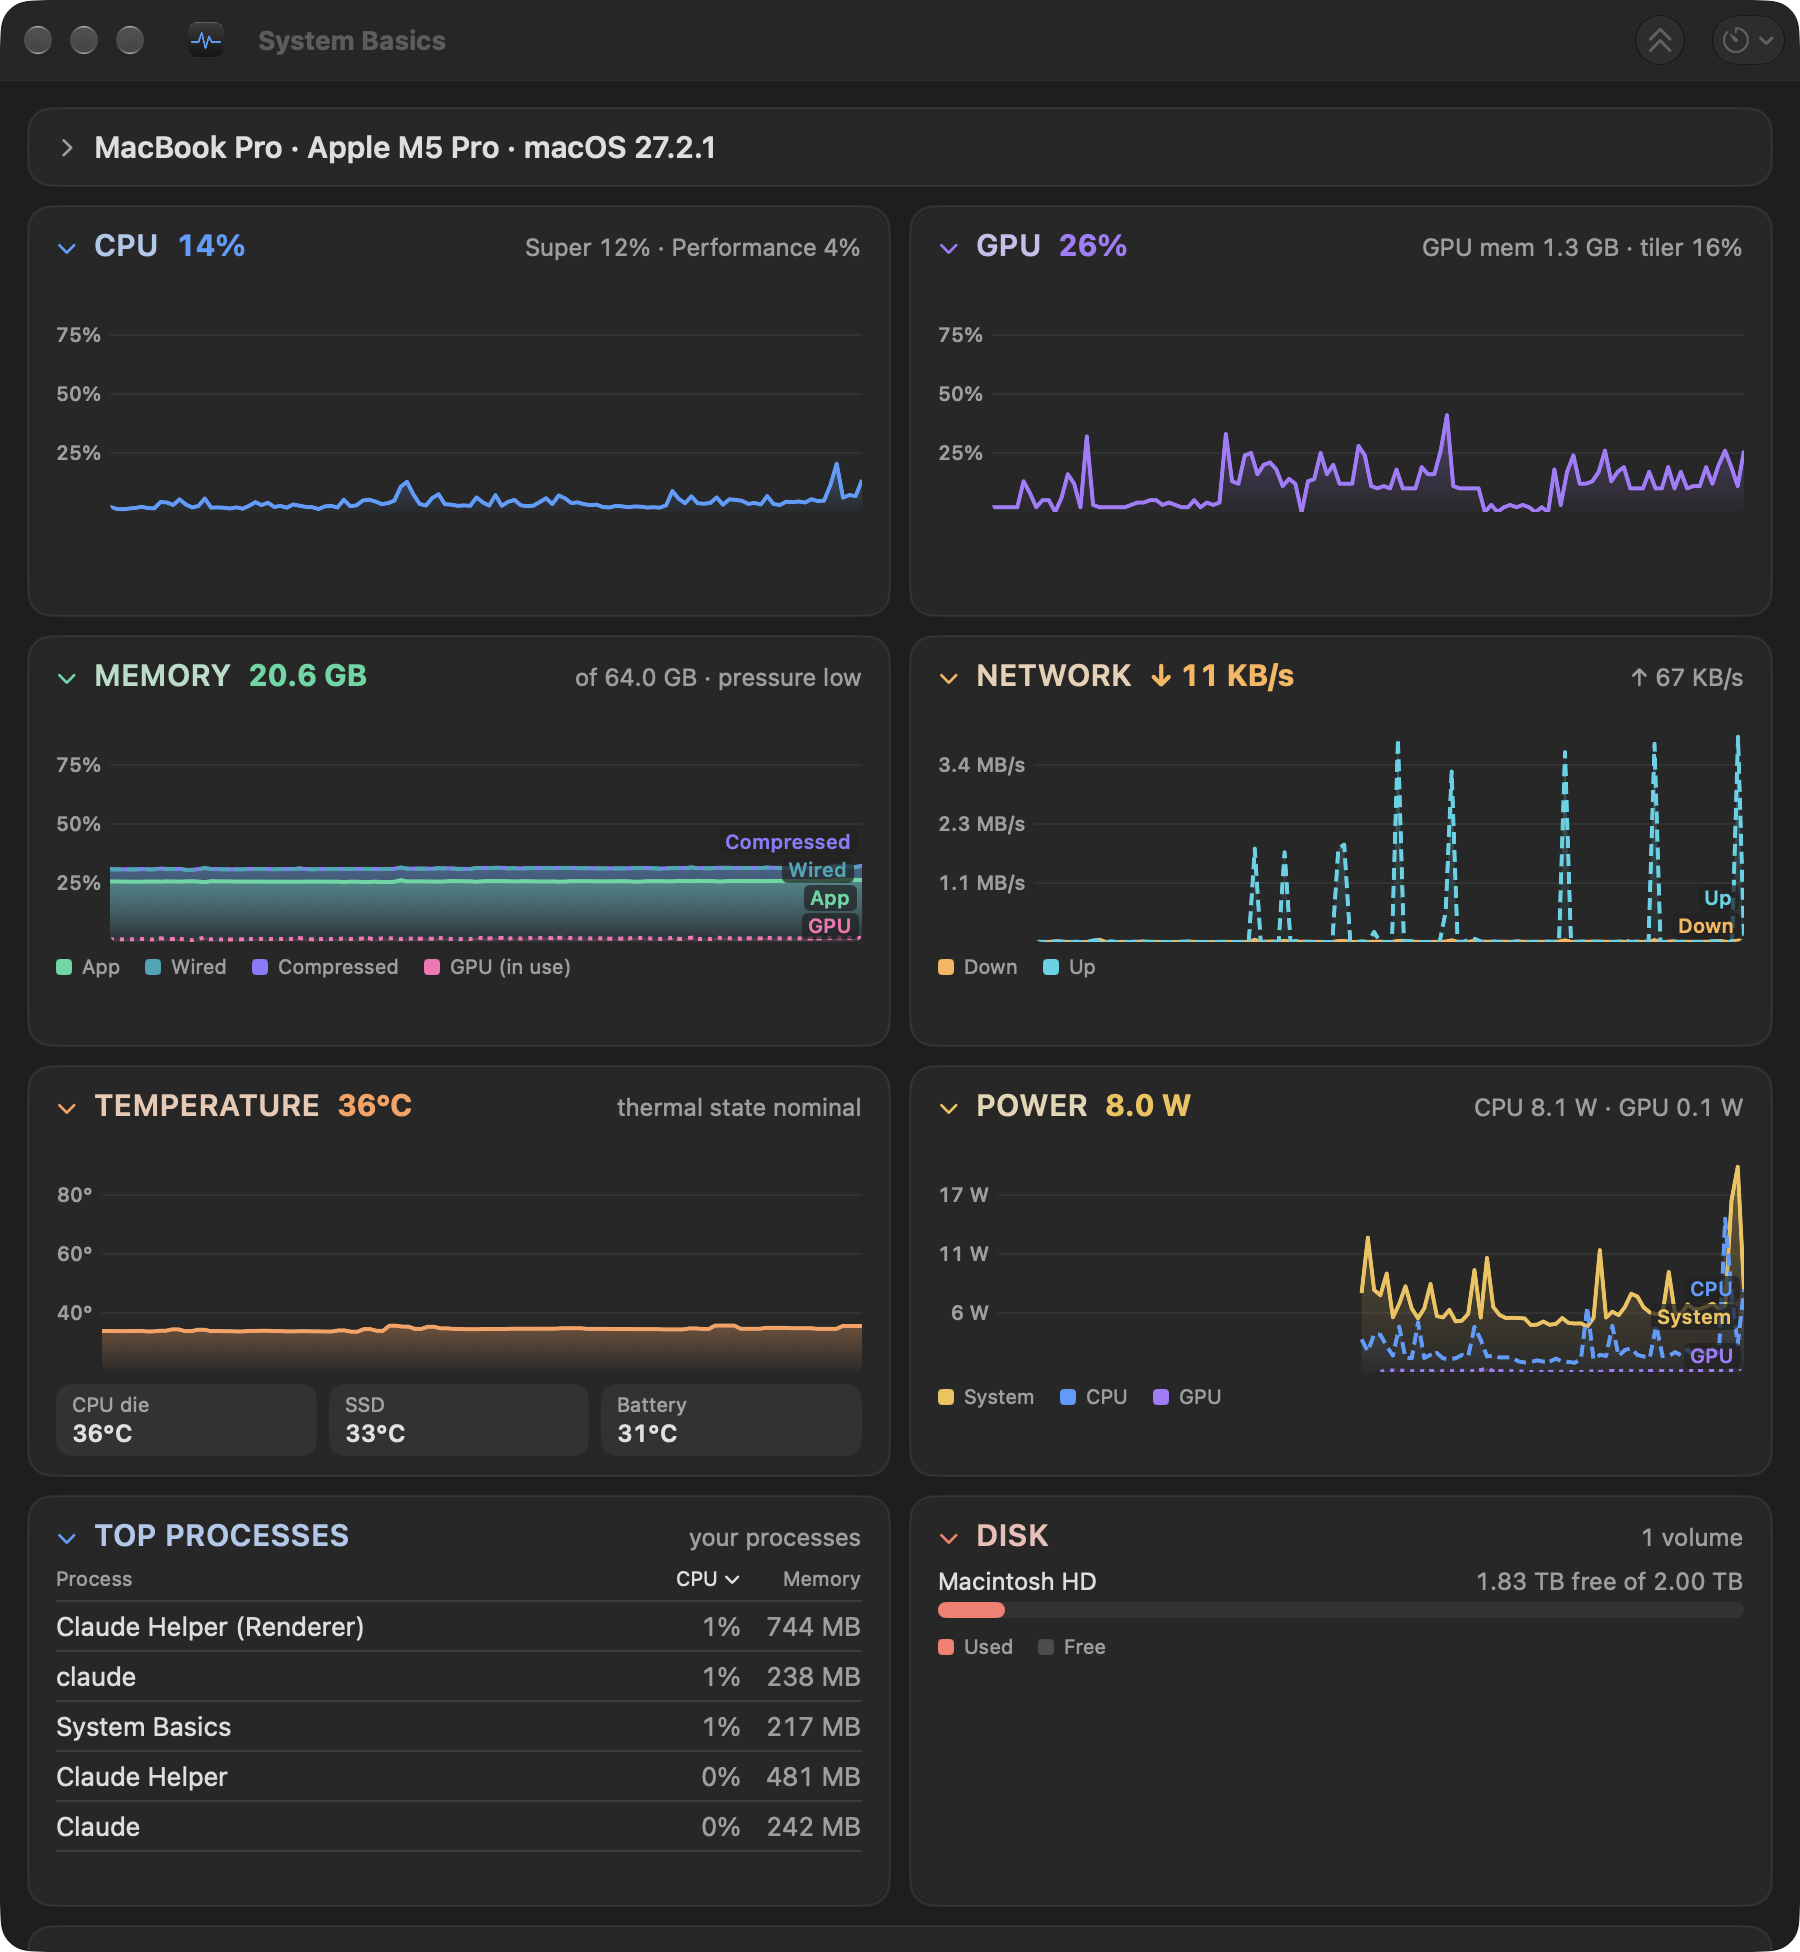
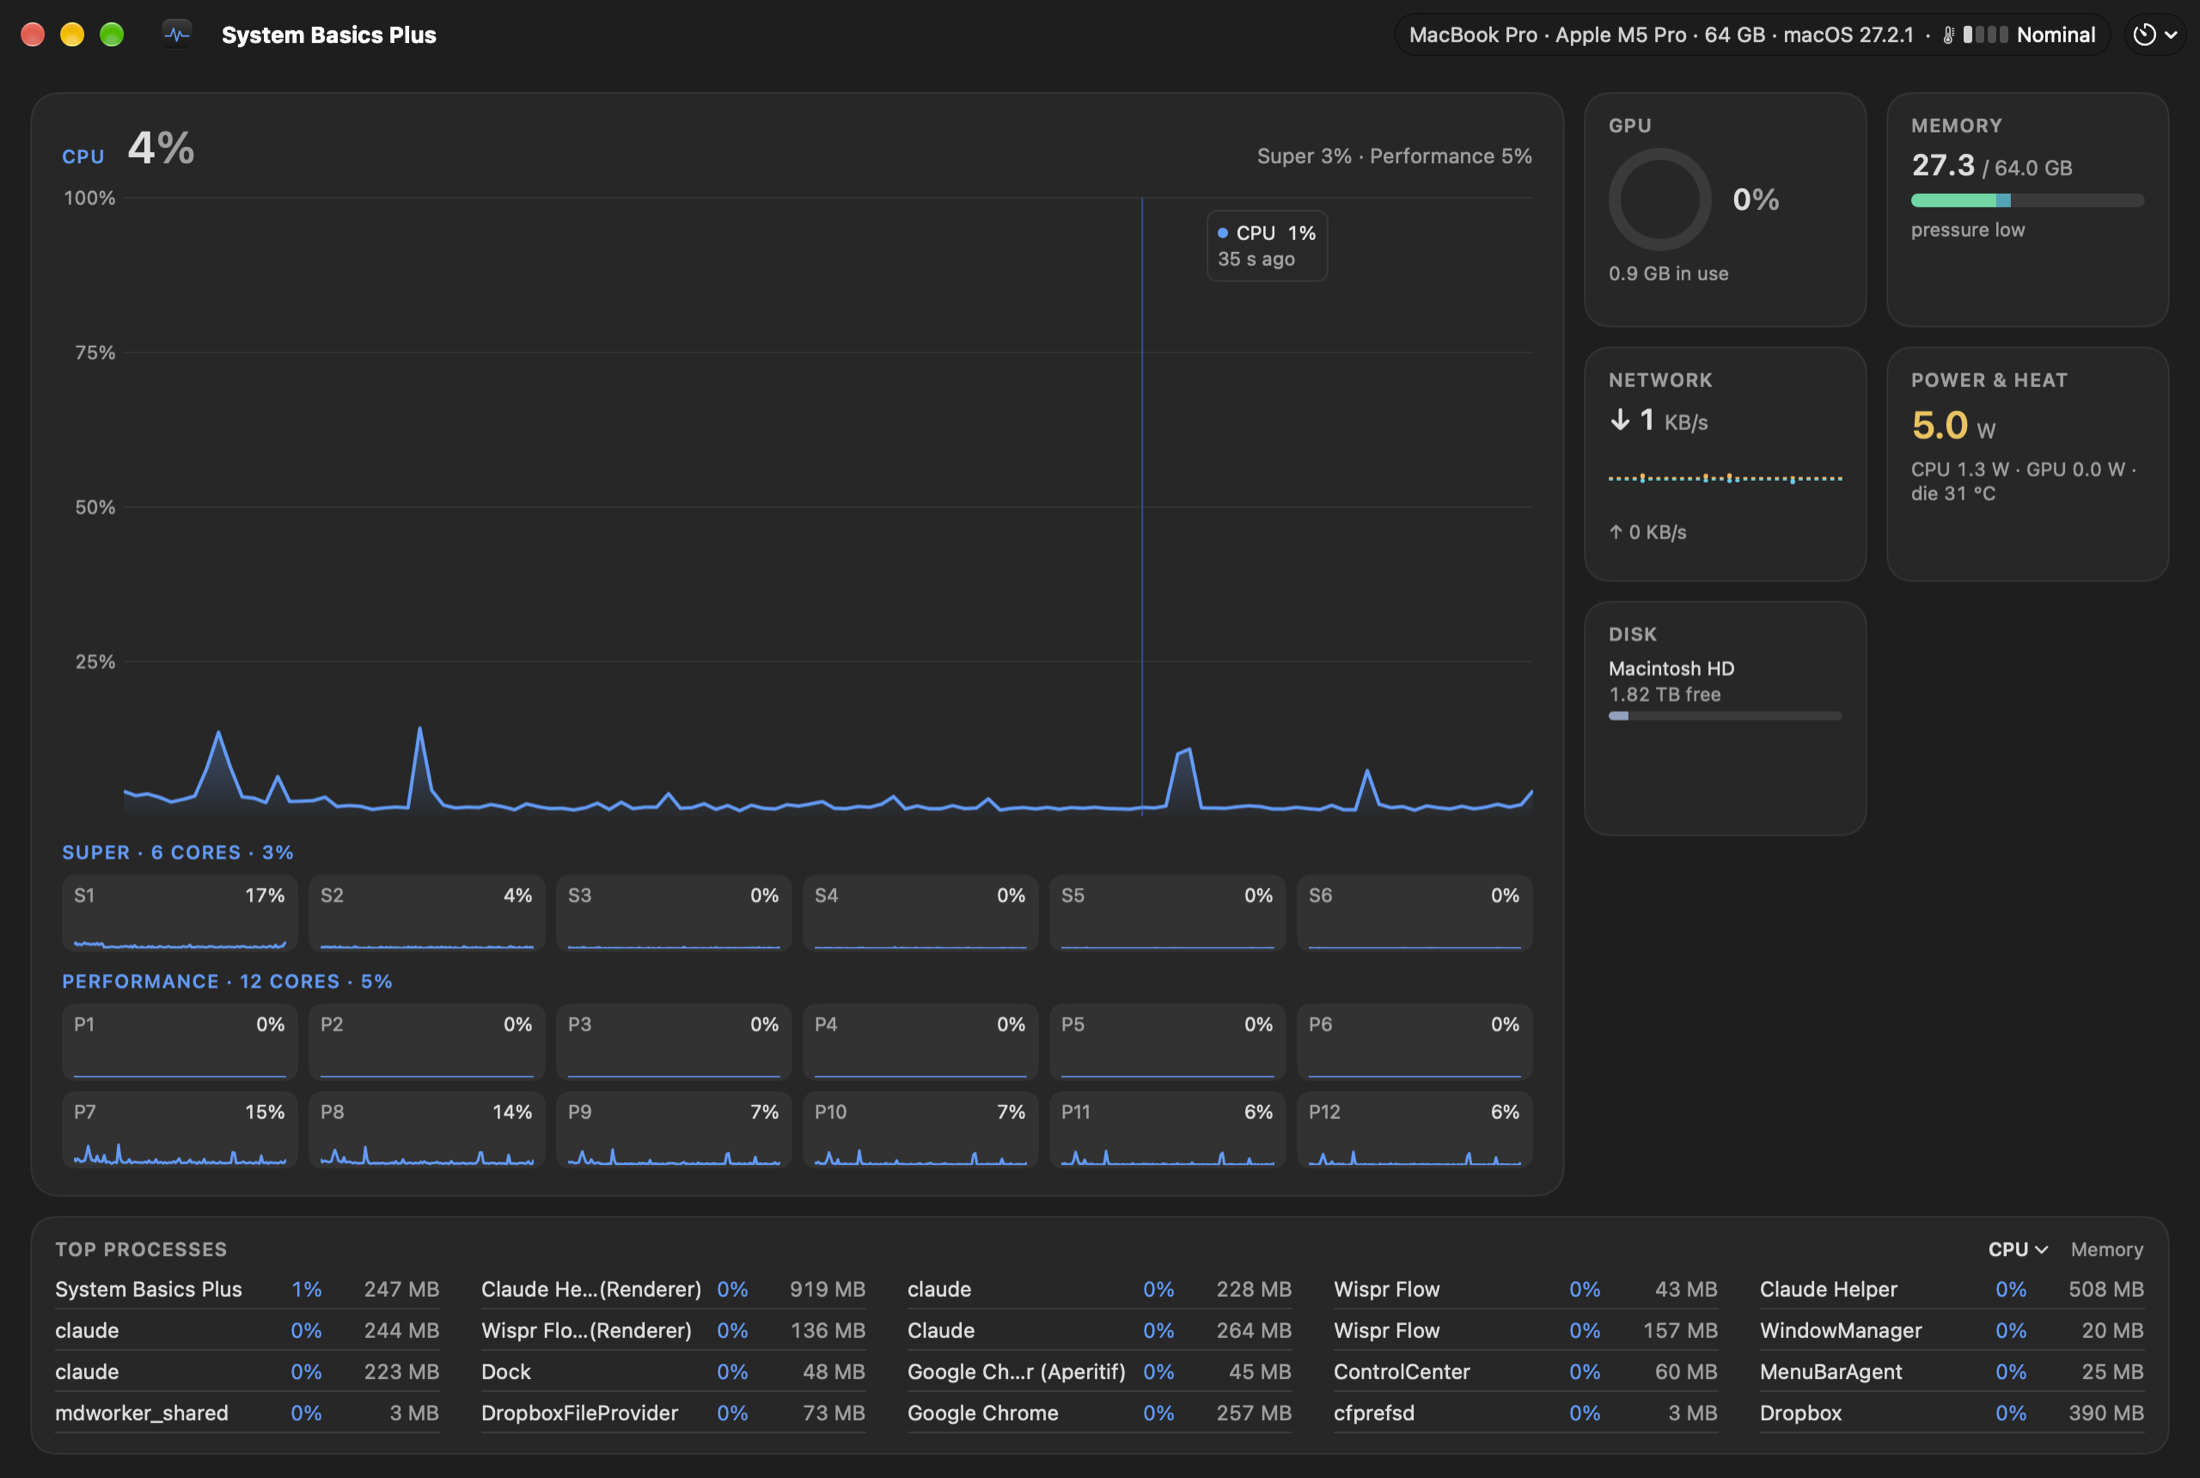
System Basics Plus 0.2: six layouts on the app page, new screenshots

diff --git a/docs/system-basics/index.html b/docs/system-basics/index.html
@@ -18,12 +18,14 @@
 </header>
 
 <main class="wrap">
-  <h1 class="app-title"><img src="img/icon.png" alt="" width="128" height="128">System Basics</h1>
-  <p class="lede">A small, quiet system monitor for the Mac. Nothing fancy. Live graphs for CPU, GPU, memory, network, temperature and power, in a window, in the menu bar and on the Dock icon. Nothing else: no accounts, no ads, and nothing leaves your Mac. There are far more comprehensive apps available for tracking system stats. I wanted a simpler version so I made my own.</p>
+  <h1 class="app-title"><img src="img/icon.png" alt="" width="128" height="128">System Basics Plus</h1>
+  <p class="lede">A small, quiet system monitor for the Mac. Nothing fancy. Live readings for CPU, GPU, memory, network, temperature and power, in a window with six layouts to choose from, in the menu bar and on the Dock icon. Nothing else: no accounts, no ads, and nothing leaves your Mac. There are far more comprehensive apps available for tracking system stats. I wanted a simpler version so I made my own.</p>
 
   <figure>
-    <img src="img/window.png" alt="The System Basics window: CPU, GPU, memory, network, temperature, power, top processes, disk and per-core cards">
+    <img src="img/window.png?v=2" alt="The System Basics Plus window in the Hero &amp; Satellites layout: a large CPU graph with per-core traces, tiles for GPU, memory, network, power and disk, and the top processes below">
+    <figcaption>Hero &amp; Satellites, the default layout: one metric large, the others as tiles. Click a tile to bring it into focus.</figcaption>
   </figure>
+  <p class="dim">New in 0.2: six window layouts, metrics you can switch off everywhere, and the top 20 processes. The app is now named System Basics Plus; your settings carry over.</p>
 
   <h2 id="install">Install</h2>
   <p>Requires macOS 15 (Sequoia) or later.</p>
@@ -34,7 +36,7 @@ brew install --cask tcrowson/tap/system-basics</code></pre>
   <h3 id="update">Update</h3>
   <pre><code>brew update
 brew upgrade --cask system-basics</code></pre>
-  <p class="dim"><code>brew update</code> fetches the list of new versions; without it, Homebrew may not see the latest release yet. Quit and reopen System Basics afterward to run the new version.</p>
+  <p class="dim"><code>brew update</code> fetches the list of new versions; without it, Homebrew may not see the latest release yet. Quit and reopen System Basics Plus afterward to run the new version.</p>
 
   <h3 id="uninstall">Uninstall</h3>
   <pre><code>brew uninstall --cask system-basics</code></pre>
@@ -45,13 +47,42 @@ brew upgrade --cask system-basics</code></pre>
 
   <h3>The window</h3>
   <ul class="features">
-    <li><strong>Cards for every metric</strong>: CPU, GPU, Memory, Network, Temperature, Power, Top Processes, Disk and Per-core, each with a large history graph. Hover a graph to read the value at any moment.</li>
-    <li><strong>Fits any width</strong>: cards pack into as many columns as the window allows, from one up to four.</li>
-    <li><strong>Collapse or hide</strong> any card by clicking its header, or hide it from View ▸ Cards. Hidden cards stop measuring.</li>
-    <li><strong>This Mac</strong>: a panel with the model, chip, memory, macOS version, uptime, startup disk, displays and battery health. Choose which facts show in Settings ▸ System Info.</li>
-    <li><strong>Per-core</strong>: one small graph per core, grouped by core type, using the names your chip reports.</li>
-    <li><strong>Top Processes</strong>: your five busiest processes by CPU or memory, including the work of short-lived helper processes such as compilers.</li>
+    <li><strong>Six layouts</strong>: the same readings drawn six ways. Pick one in Settings ▸ General or View ▸ Layout; switching is instant and keeps the history.</li>
+    <li><strong>Your choice of metrics</strong>: CPU, Per-core, GPU, Memory, Network, Thermal, Power, Disk and Top Processes. Switch any of them off in Settings ▸ Metrics and it leaves every layout, the menu bar and the Dock, and stops being measured.</li>
+    <li><strong>Fits any size</strong>: every layout reflows from a narrow strip to a full screen and uses the height it is given.</li>
+    <li><strong>This Mac</strong>: the model, chip, memory, macOS version and thermal level in the title bar; click it for uptime, startup disk, displays and battery health. Choose the facts in Settings ▸ System Info.</li>
+    <li><strong>Per-core</strong>: every core, grouped by core type, using the names your chip reports.</li>
+    <li><strong>Top Processes</strong>: your 20 busiest processes by CPU or memory, including the work of short-lived helper processes such as compilers.</li>
   </ul>
+
+  <h3>The layouts</h3>
+  <div class="shots layouts">
+    <figure>
+      <img src="img/layout-strip.png" alt="Instrument Strip: one row per metric, each with a graph on a shared time axis">
+      <figcaption><strong>Instrument Strip</strong>: one row per metric on a shared time axis. Hover any graph and one scrubber reads every row at that moment.</figcaption>
+    </figure>
+    <figure>
+      <img src="img/layout-numerals.png" alt="Big Numerals: each metric as one large colored number in a grid of tiles">
+      <figcaption><strong>Big Numerals</strong>: each metric as one large number, readable from across the room.</figcaption>
+    </figure>
+    <figure>
+      <img src="img/layout-gauges.png" alt="Gauge Cluster: four dials for CPU, GPU, memory and CPU temperature above readouts and core meters">
+      <figcaption><strong>Gauge Cluster</strong>: dials for CPU, GPU, memory and CPU temperature, each with a marker at its recent peak.</figcaption>
+    </figure>
+    <figure>
+      <img src="img/layout-bento.png" alt="Bento: tinted tiles of different sizes, each metric in its own drawing">
+      <figcaption><strong>Bento</strong>: tinted tiles in different sizes, each metric in its own drawing.</figcaption>
+    </figure>
+    <figure>
+      <img src="img/layout-sourceList.png" alt="Source List: a sidebar of metrics with live values beside one metric shown in depth">
+      <figcaption><strong>Source List</strong>: every metric with its live value in a sidebar, and one shown in depth beside it.</figcaption>
+    </figure>
+    <figure class="settings">
+      <img src="img/settings-layout.png" alt="Settings, General tab: six preview cards, one per layout">
+      <figcaption>Settings ▸ General: pick a layout from its preview.</figcaption>
+    </figure>
+  </div>
+  <p class="dim">In Hero &amp; Satellites, each tile can also show its metric as text, a graph, a bar or a ring: use the ··· button on the tile.</p>
 
   <h3>The menu bar</h3>
   <figure class="bar">

diff --git a/docs/index.html b/docs/index.html
@@ -24,9 +24,9 @@
 
   <div class="apps">
     <a class="card" href="system-basics/">
-      <img src="system-basics/img/window.png" alt="The System Basics window with CPU, GPU, memory and network graphs">
-      <h3 class="app-title"><img src="system-basics/img/icon.png" alt="" width="56" height="56">System Basics</h3>
-      <p>Live CPU, GPU, memory, network, temperature and power graphs in a window, the menu bar and the Dock. macOS 15 or later.</p>
+      <img src="system-basics/img/window.png?v=2" alt="The System Basics Plus window with a large CPU graph and tiles for GPU, memory, network, power and disk">
+      <h3 class="app-title"><img src="system-basics/img/icon.png" alt="" width="56" height="56">System Basics Plus</h3>
+      <p>Live CPU, GPU, memory, network, temperature and power readings in a window with six layouts, the menu bar and the Dock. macOS 15 or later.</p>
     </a>
   </div>
 </main>

diff --git a/README.md b/README.md
@@ -4,7 +4,7 @@
 
 | App | What it does | Needs |
 | --- | --- | --- |
-| [System Basics](https://tcrowson.github.io/homebrew-tap/system-basics/) | Live system graphs in a window, the menu bar and the Dock | macOS 15 |
+| [System Basics Plus](https://tcrowson.github.io/homebrew-tap/system-basics/) | Live system readings in a window with six layouts, the menu bar and the Dock | macOS 15 |
 
 ## Install
 
